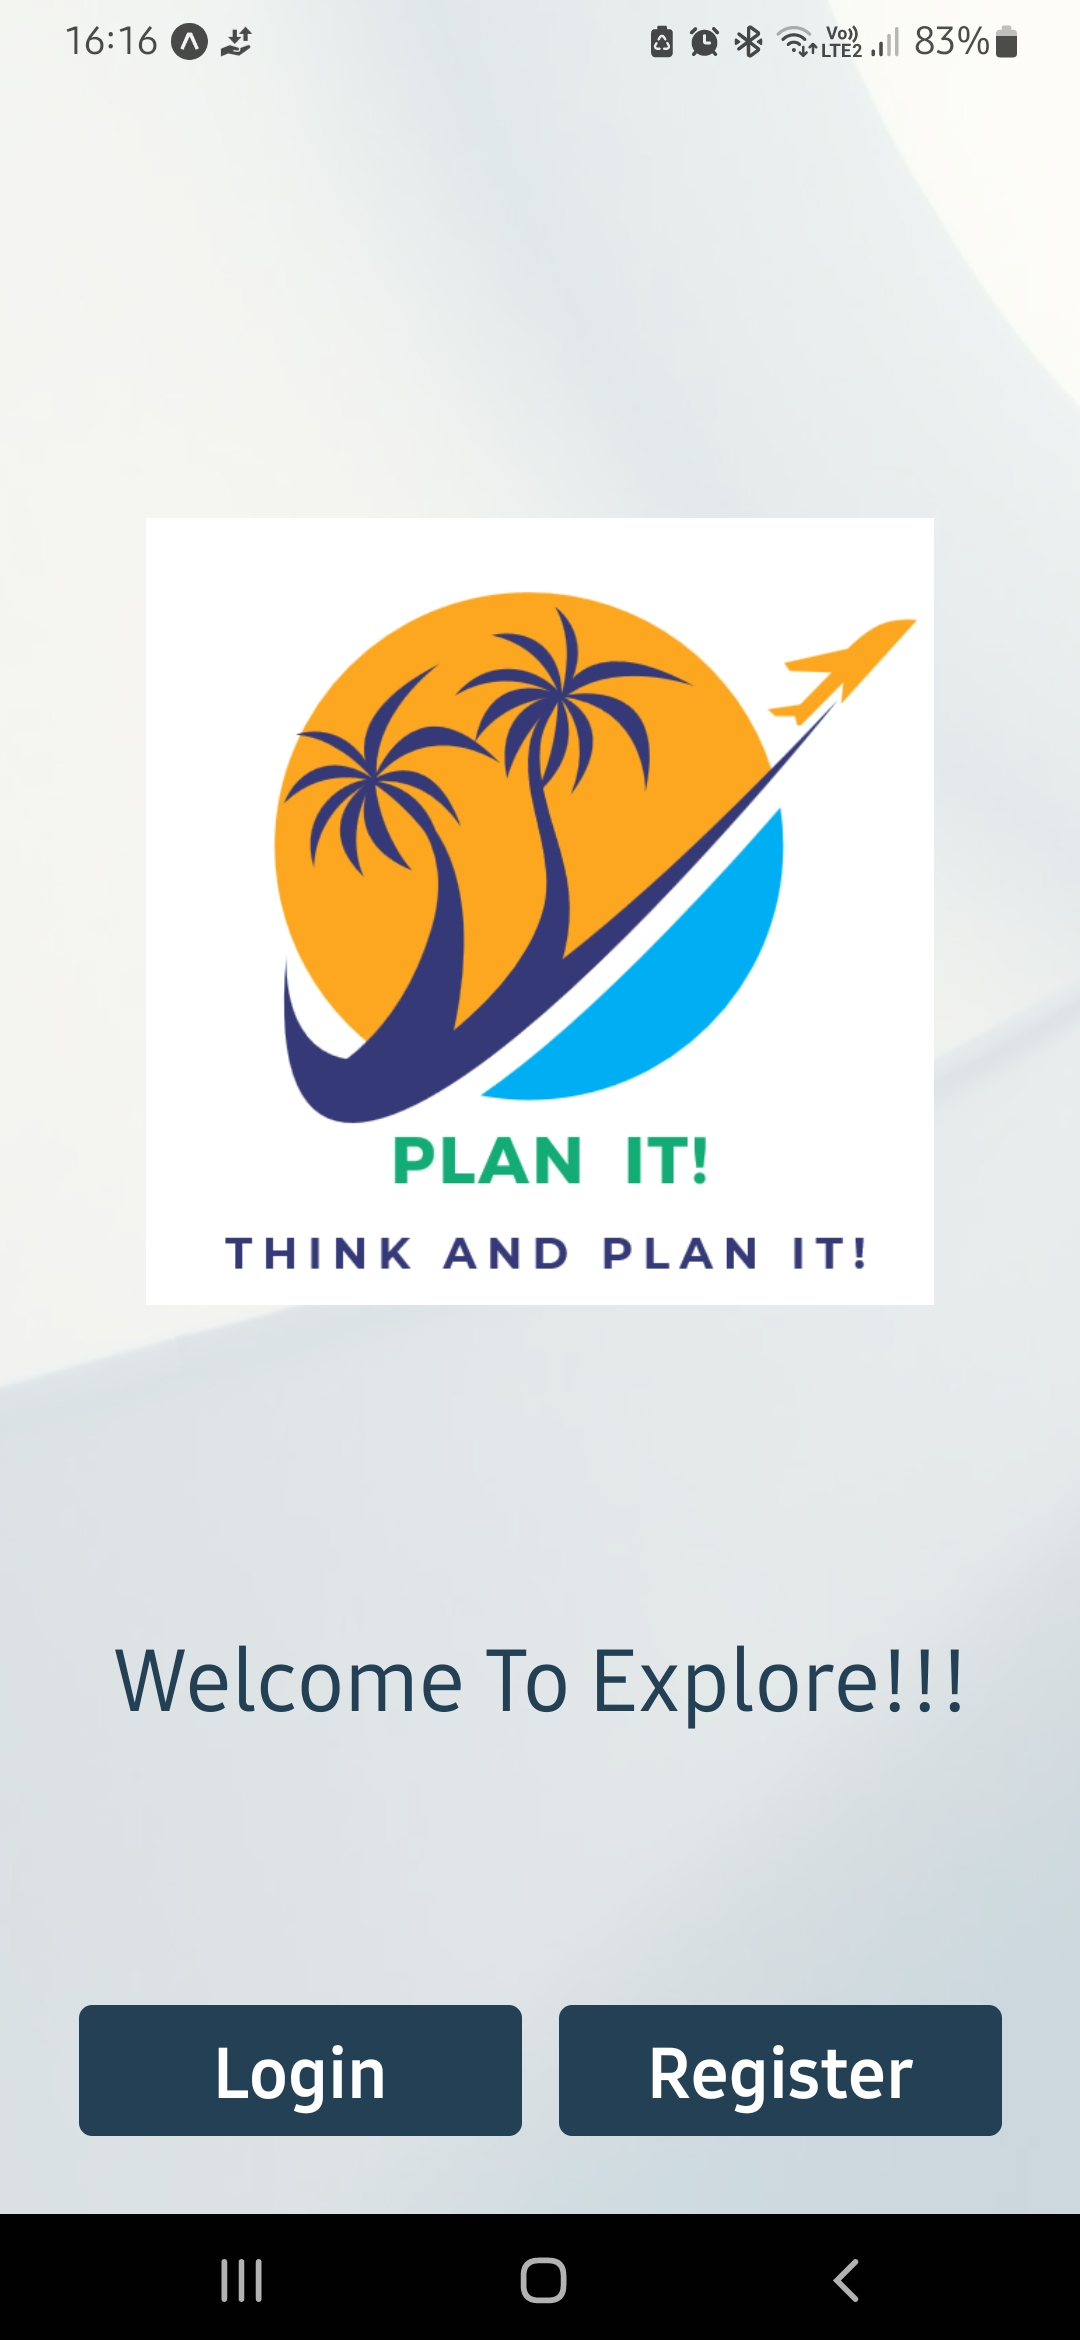
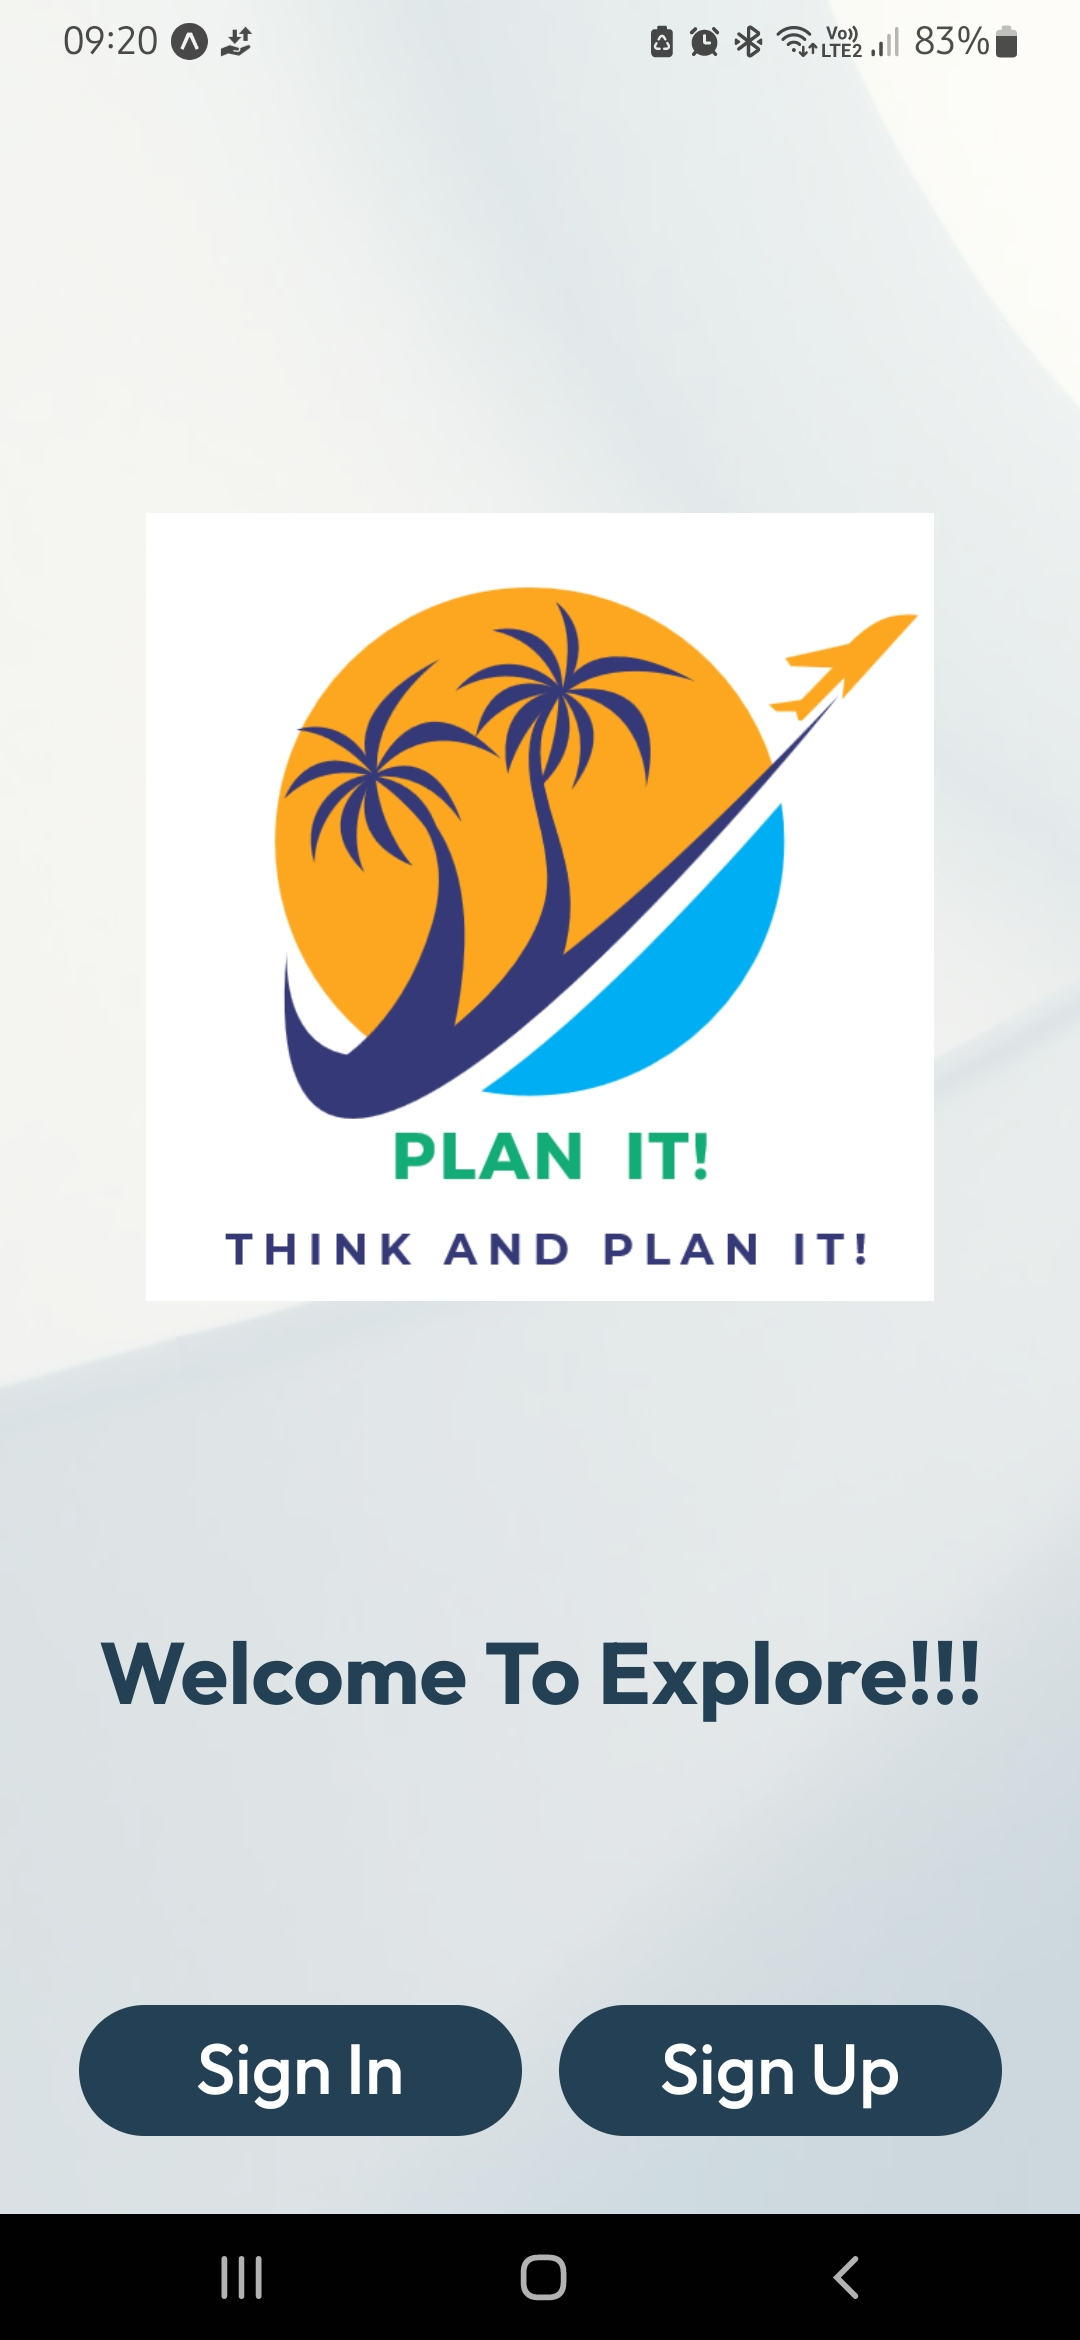
fontsandscreenshotsadded

diff --git a/tabs/profile.jsx b/tabs/profile.jsx
@@ -6,7 +6,7 @@ import { MaterialIcons } from '@expo/vector-icons';
 const ProfileScreen = () => {
   const [username, setUsername] = useState('Harsh Prasad');
   const [email, setEmail] = useState('harsh.gis9000@gmail.com');
-  const [bio, setBio] = useState('Lorem ipsum dolor sit amet, consectetur adipiscing elit.');
+  const [bio, setBio] = useState('Bio:Lorem ipsum dolor sit amet, consectetur adipiscing.');
   const [newUsername, setNewUsername] = useState(username);
   const [newEmail, setNewEmail] = useState(email);
   const [newBio, setNewBio] = useState(bio);
@@ -114,15 +114,18 @@ const styles = StyleSheet.create({
     marginBottom: 20,
   },
   username: {
+    fontFamily:'outfit-medium',
     fontSize: 24,
     marginTop: 10,
   },
   email: {
+    fontFamily:'outfit-regular',
     fontSize: 18,
     color: '#666',
     marginTop: 5,
   },
   bio: {
+    fontFamily:'outfit-regular',
     fontSize: 16,
     marginTop: 10,
     textAlign: 'center',
@@ -137,6 +140,7 @@ const styles = StyleSheet.create({
     marginBottom: 10,
     width: '100%',
     fontSize: 18,
+    fontFamily:'outfit-medium'
   },
   bioInput: {
     height: 100,
@@ -155,6 +159,7 @@ const styles = StyleSheet.create({
     marginTop: 20,
   },
   editButtonText: {
+    fontFamily:'outfit-medium',
     marginLeft: 10,
     fontSize: 18,
   },

diff --git a/components/navigation.jsx b/components/navigation.jsx
@@ -10,6 +10,7 @@ import SearchPage from '../createtrip/searchplace';
 import SelectTraveller from '../createtrip/selecttraveller';
 import PickDatePage from '../createtrip/pickdate';
 import ReviewPage from '../createtrip/review';
+import ProfilePage from '../tabs/profile';
 
 const Stack = createStackNavigator();
 
@@ -34,6 +35,7 @@ const Navigation = () => {
             <Stack.Screen name="SelectTraveller" component={SelectTraveller} options={{ headerShown: false }} />
             <Stack.Screen name="PickDatePage" component={PickDatePage} options={{ headerShown: false }} />
             <Stack.Screen name="ReviewPage" component={ReviewPage} options={{ headerShown: false }} />
+            <Stack.Screen name="ProfilePage" component={ProfilePage} options={{ headerShown: false }} />
           </>
         ) : (
           <>

diff --git a/createtrip/header.jsx b/createtrip/header.jsx
@@ -9,10 +9,9 @@ export default function Header({ navigation }) {
         <Ionicons name="arrow-back" size={24} color="black" />
       </TouchableOpacity>
       <View style={styles.rightHeader}>
-        <TouchableOpacity>
+        <TouchableOpacity onPress={()=>navigation.navigate('ProfilePage')}>
           <Image source={require('../assets/images/PROFILE.jpg')} style={styles.profilePic} />
         </TouchableOpacity>
-        {/* Add any additional header items here */}
       </View>
     </View>
   );

diff --git a/components/welcome.jsx b/components/welcome.jsx
@@ -55,15 +55,7 @@ const styles = StyleSheet.create({
     paddingTop: 20,
     paddingBottom: 15,
     textTransform: "capitalize",
-    fontFamily: "bold",
-    textAlign: 'center',
-  },
-  description: {
-    fontSize: 20,
-    color: "#7d7d7d",
-    paddingBottom: 20,
-    lineHeight: 25,
-    fontFamily: "regular",
+    fontFamily: "outfit-bold",
     textAlign: 'center',
   },
   buttonContainer: {

diff --git a/components/landing.jsx b/components/landing.jsx
@@ -4,7 +4,7 @@ import TabNavigator from '../tabs/layout';
 
 const bg = require('../assets/images/bg1.jpg');
 
-const LandingPage = ({ navigation }) => {
+const LandingPage = () => {
   return (
     <ImageBackground source={bg} style={styles.backgroundImage}>
       <View style={styles.maincontainer}>

diff --git a/createtrip/selecttraveller.jsx b/createtrip/selecttraveller.jsx
@@ -82,6 +82,9 @@ const styles = StyleSheet.create({
     color: '#244055',
     marginBottom: 20,
   },
+  selectedOption: {
+    fontFamily:'outfit-medium',
+  },
   selectedLocation: {
     fontSize: 20,
     fontFamily: 'outfit-bold',

diff --git a/components/register.jsx b/components/register.jsx
@@ -127,6 +127,7 @@ const styles = StyleSheet.create({
         fontFamily: "outfit-regular",
     },
     input: {
+        fontFamily:'outfit-medium',
         height: 40,
         borderColor: '#7d7d7d',
         borderWidth: 1,

diff --git a/components/reuseinput.jsx b/components/reuseinput.jsx
@@ -21,6 +21,7 @@ const CustomTextInput = ({
 
 const styles = StyleSheet.create({
   input: {
+    fontFamily:'outfit-medium',
     height: 40,
     borderColor: '#7d7d7d',
     borderWidth: 1,

diff --git a/components/reusebutton.jsx b/components/reusebutton.jsx
@@ -33,7 +33,7 @@ const styles = StyleSheet.create({
   buttonText:{
     color:'#fff',
     fontSize:18,
-    fontWeight:'bold',
+    fontFamily:'outfit-medium',
   },
 });
 
